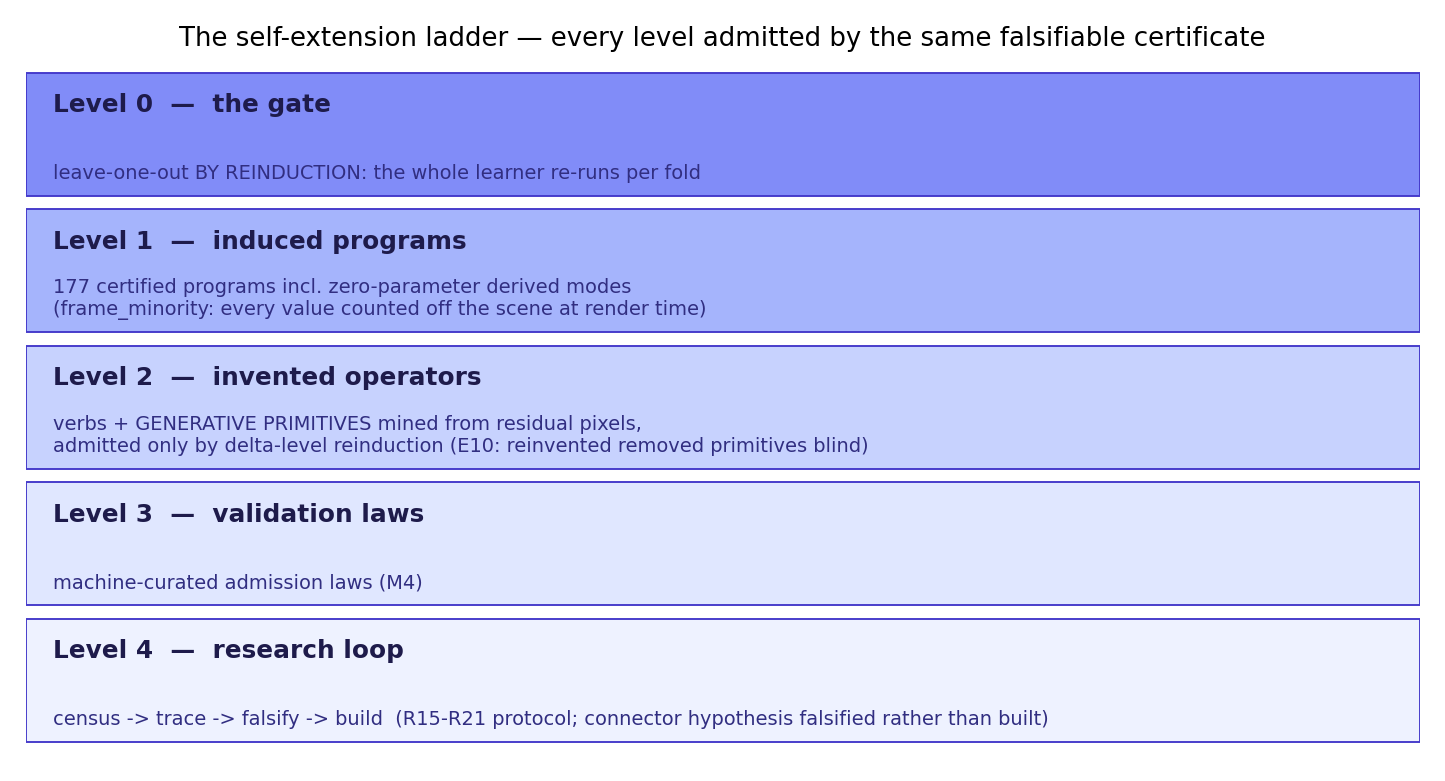
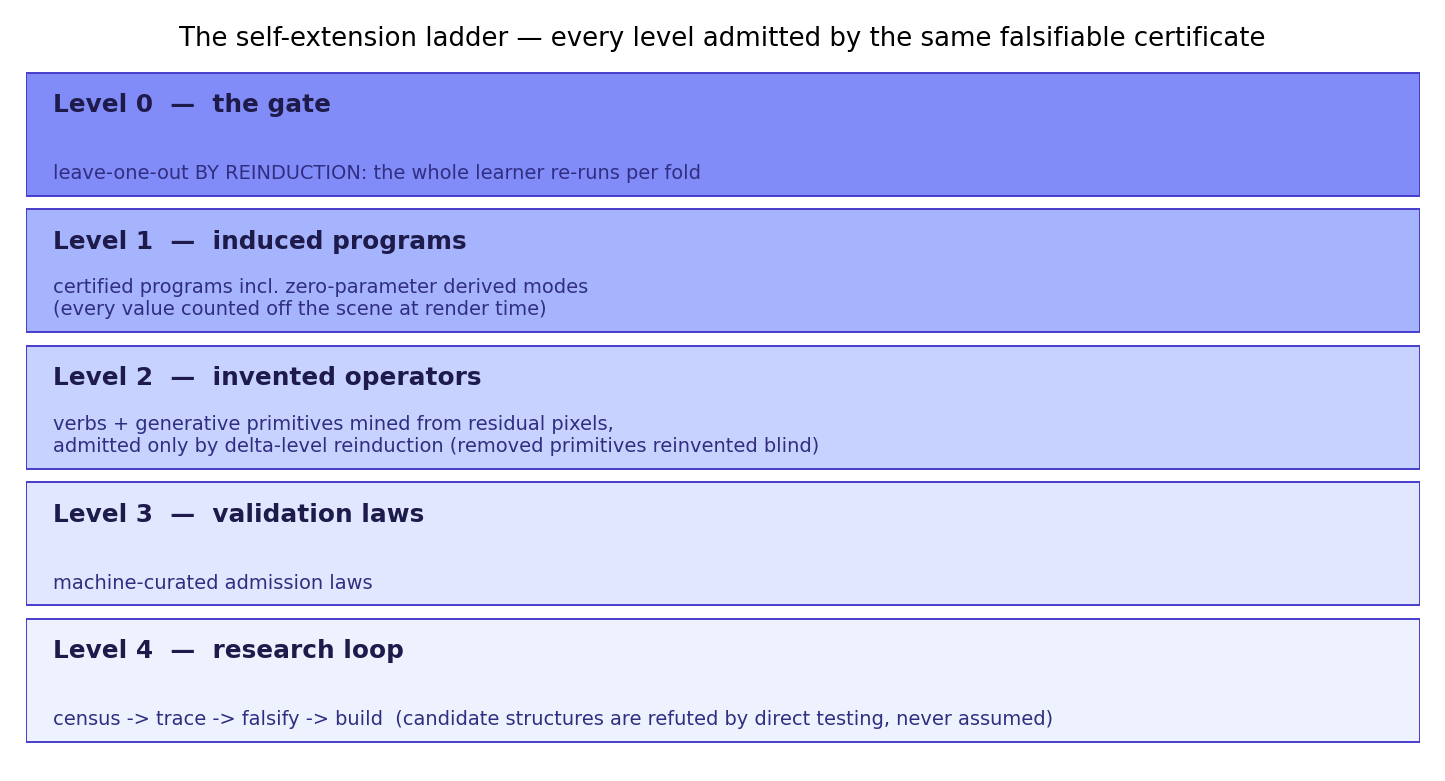
Focus front page on method: certificates, invention pipeline, falsification discipline

diff --git a/README.md b/README.md
@@ -7,11 +7,6 @@ independently re-derives a program that solves the held-out example — for
 every fold.** The certificate validates the *learner*, not the artifact:
 a lucky program cannot pass it, because luck does not re-run.
 
-**177/1000 ARC training tasks solved with certificates** (17.7% Certified
-Solve Rate; 19.1% under Kaggle best-of-2) — and an honest, calibrated
-0/120 on the public evaluation split: reliability transfers even where
-coverage does not.
-
 ![Certificate calibration](assets/certificates.png)
 
 ![Failure is the fuel](assets/meta_funnel.png)
@@ -36,13 +31,11 @@ same task** with no human having named either primitive.
 ![Self-extension ladder](assets/ladder.png)
 
 ## Certified progress, round by round
-Every gain below is a *certified* solve; every round that yielded zero is
+Every gain is a *certified* solve; every round that yielded zero is
 recorded with its diagnosis. The falsification discipline runs both ways:
 one candidate structure (inter-object connectors) was **refuted by direct
 trace testing and never built**, while its exemplars were reclassified
 into families that do reproduce the evidence.
-
-![Trajectory](assets/trajectory.png)
 
 Recent rounds:
 - **Derived-pattern modes** — programs that *derive* their pattern from the
